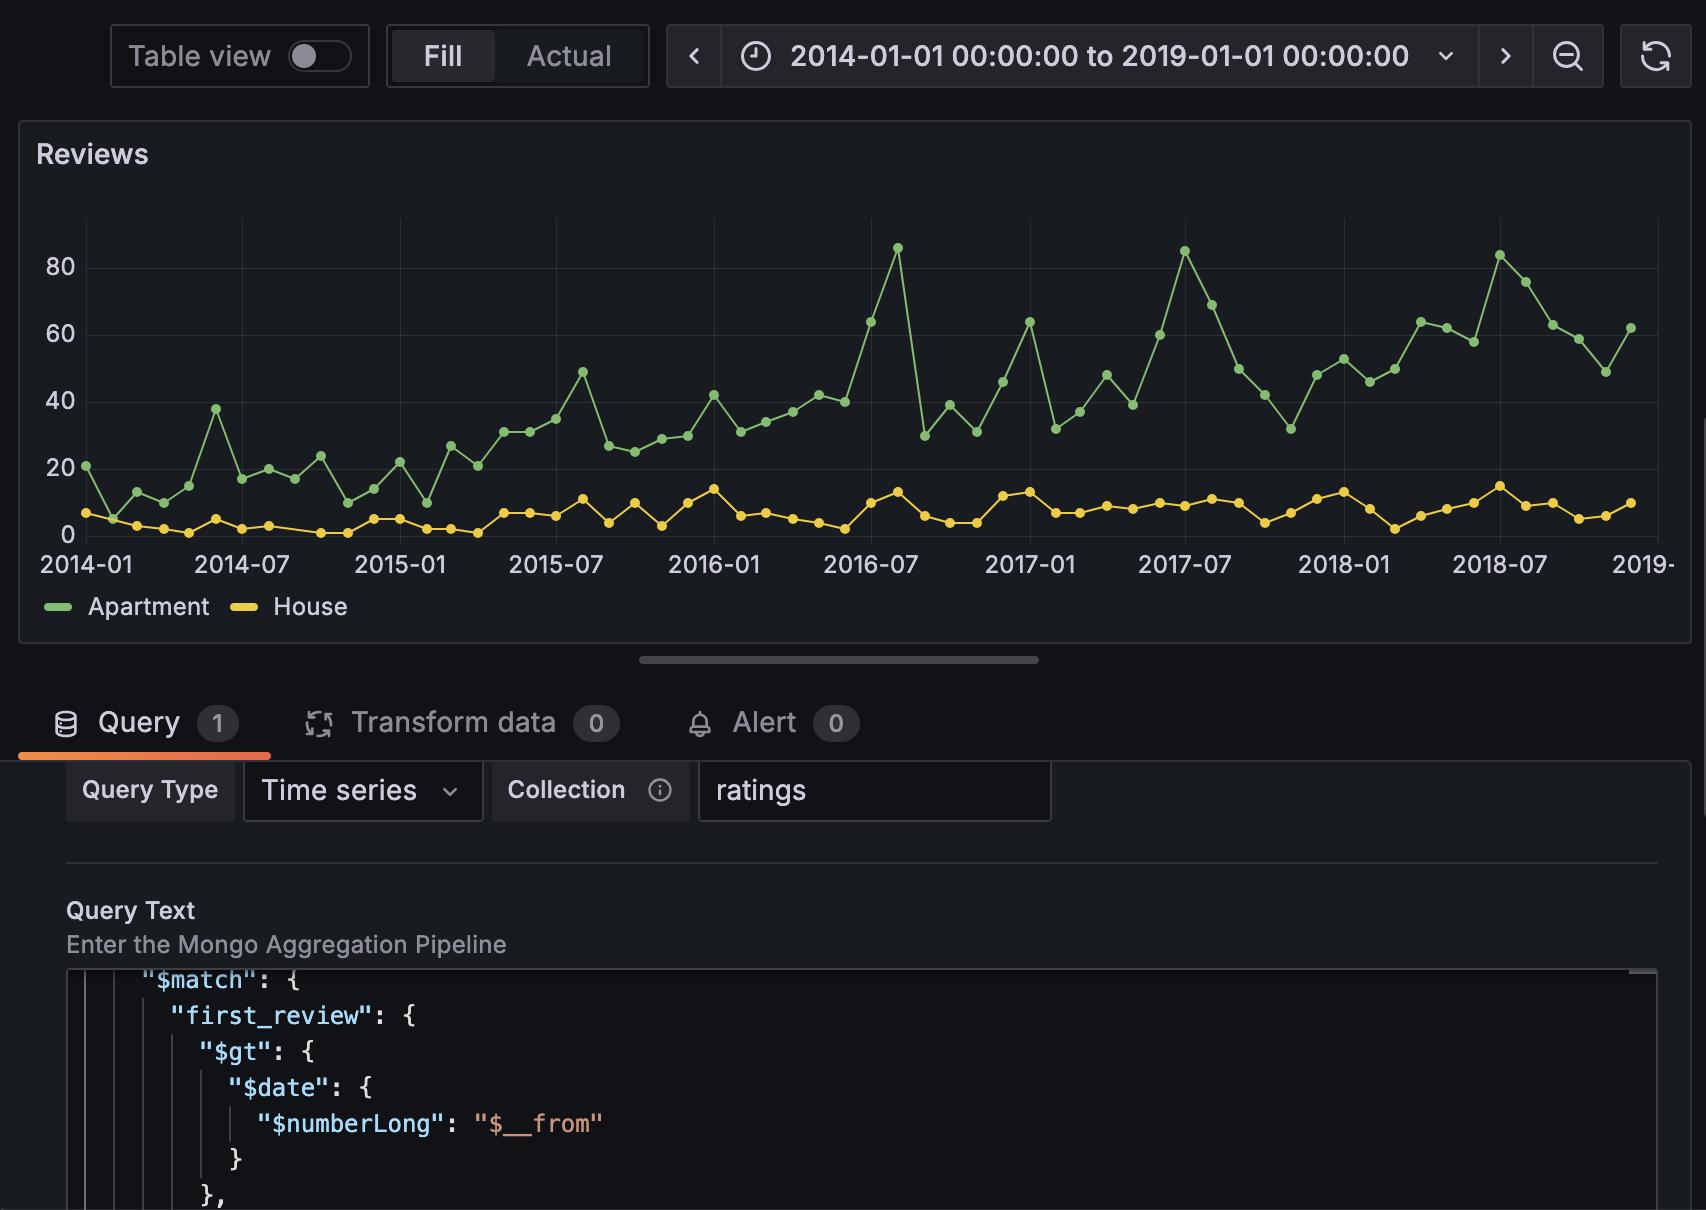
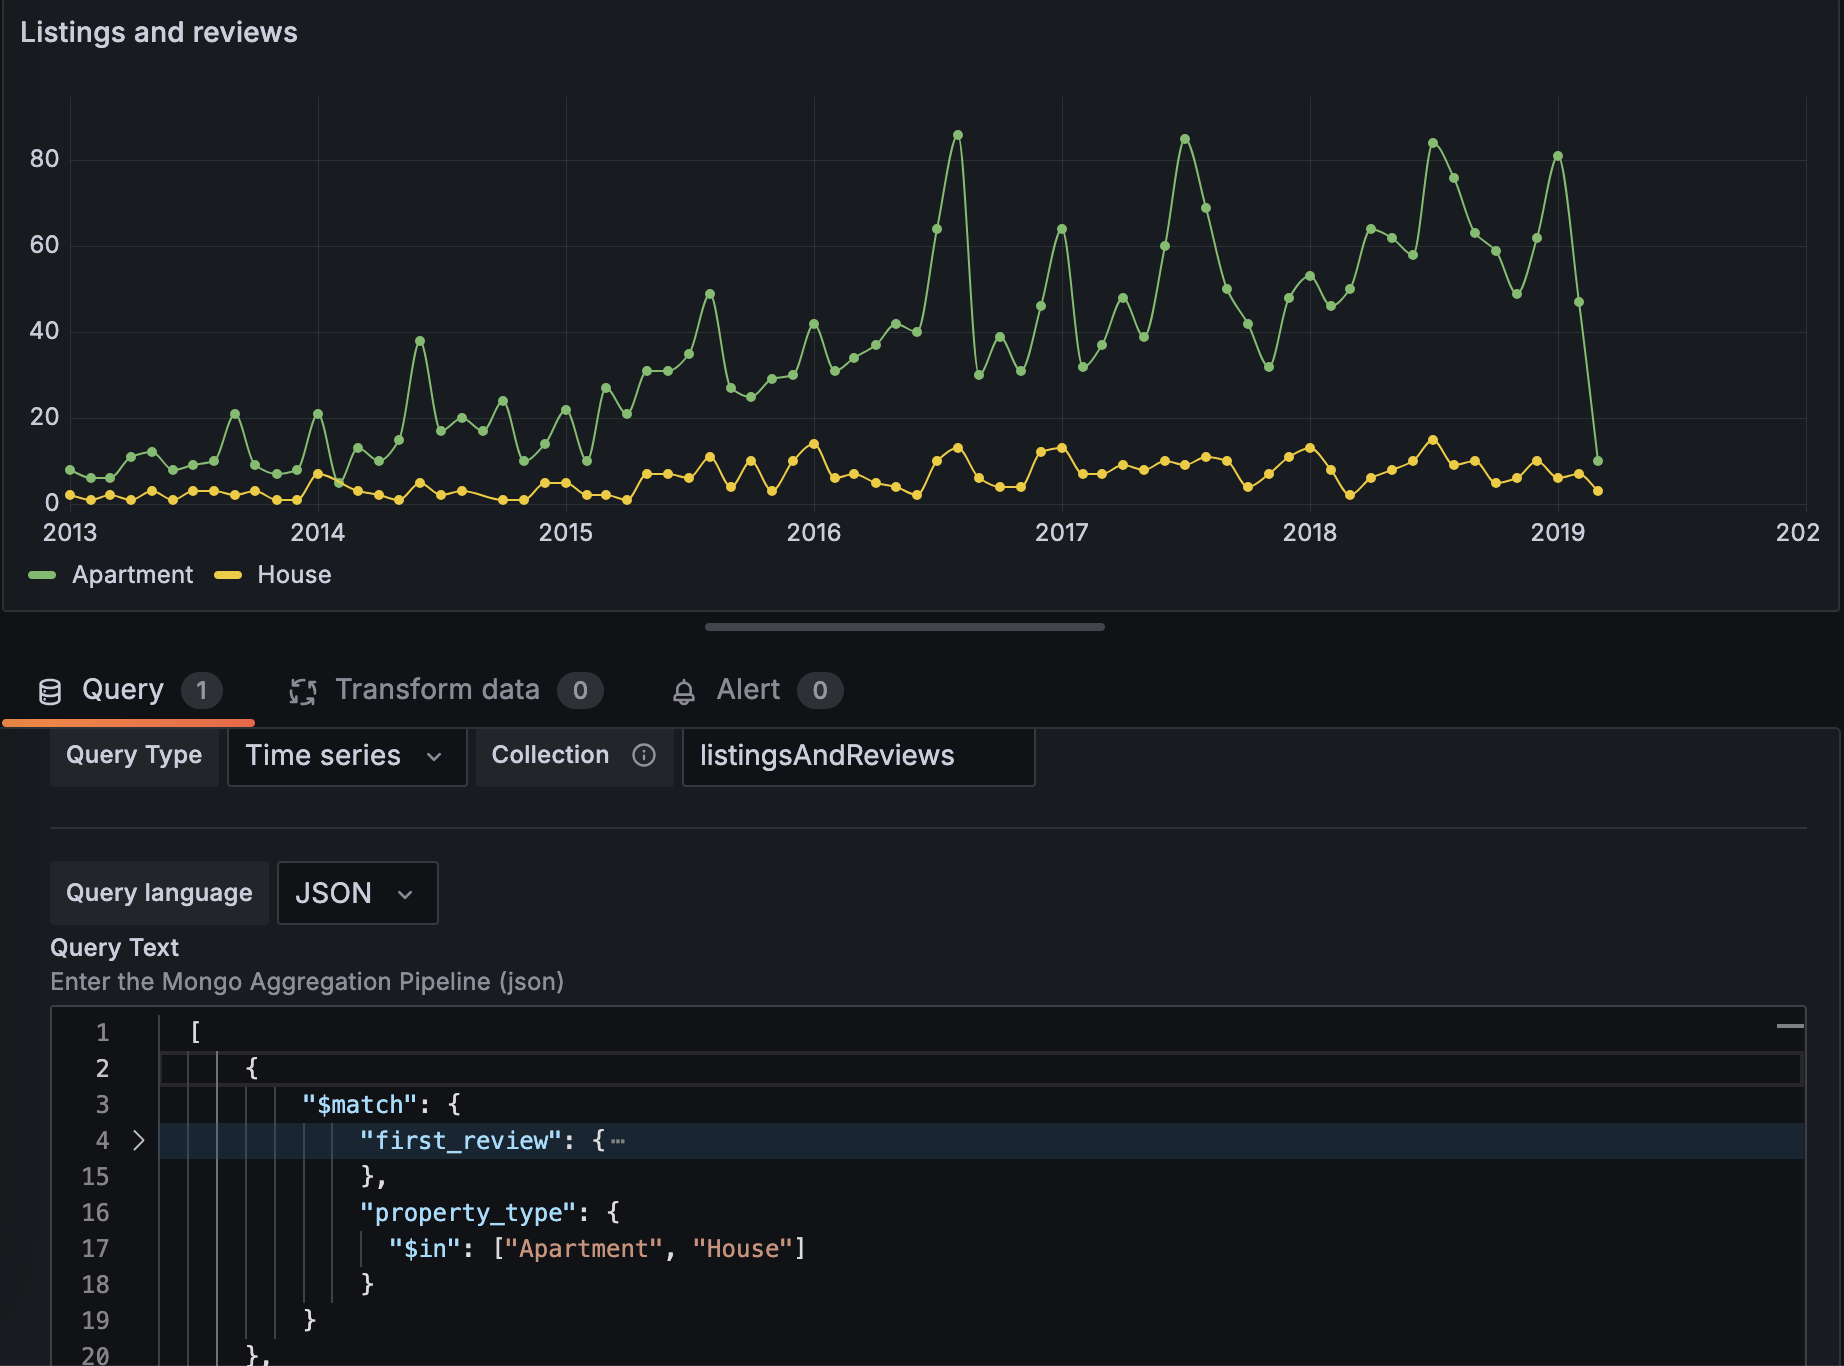
V0.1.0 release (#14)
* update README and plugin metadata

* Update screenshot

* update title

diff --git a/README.md b/README.md
@@ -1,22 +1,50 @@
-# Grafana MongoDB data source
-![example branch parameter](https://github.com/haohanyang/mongodb-datasource/actions/workflows/ci.yml/badge.svg?branch=master)
+# Grafana MongoDB Data Source
 
-This plugin provides a Grafana datasource for querying and visualizing data from MongoDB.
+**Visualize your MongoDB data in Grafana with powerful aggregation queries.**
+
+![ci](https://github.com/haohanyang/mongodb-datasource/actions/workflows/ci.yml/badge.svg?branch=master)
+
+This plugin enables you to query and visualize data from your MongoDB databases directly within Grafana. Leverage the flexibility of MongoDB's aggregation pipeline to create insightful dashboards and panels.
 
 ![screenshot](/static/screenshot.png)
 
-## Download
-[Download the latest build](https://github.com/haohanyang/mongodb-datasource/actions/runs/11313289435/artifacts/2049966955)
+## Features
 
+- **Flexible Querying:** Craft precise queries using MongoDB's aggregation pipeline syntax in JSON or JavaScript.
+- **Time Series & Table Data:** Visualize time-based data or display results in tabular format for various Grafana panels.
+- **Secure Execution:** Execute JavaScript queries within a secure ShadowRealm sandbox to control access.
+- **Legacy Plugin Compatibility:** Seamlessly migrate from the legacy plugin with support for its query syntax.
+- **Up-to-date:** Use the latest Grafana Plugin SDKs and follow best practices.
 
-## Use
-### Query language
-The query text should be a valid MongoDB Aggregate pipeline - an array consisting of MongoDB Aggregate operations. Your may use the Grafana's built-in variables `"$__from"` and `"$__to"` to query data based on the current panel's time range. The plugin supports JSON and JavaScript query languages. In JSON query, you need to enter the database in the UI. Here is an example of JSON query.
+## Getting Started
+1. **Download:** Obtain the latest plugin build from the [Release page](https://github.com/haohanyang/mongodb-datasource/releases) or [workflow artifacts](https://github.com/haohanyang/mongodb-datasource/actions?query=branch%3Amaster).
+
+2. **Install:** 
+   - Extract the downloaded archive (`haohanyang-mongodb-datasource-<version>.zip`) into your Grafana plugins directory (`/var/lib/grafana/plugins` or similar).
+   - Ensure the plugin binaries (`mongodb-datasource/gpx_mongodb_datasource_*`) have execute permissions (`chmod +x`).
+       ```bash
+       chmod 0755 mongodb-datasource/gpx_mongodb_datasource_*
+       ```
+   - Configure the plugin as a data source within Grafana, providing your MongoDB connection details.
+
+Refer to the [example docker-compose.prod.yaml](/docker-compose.prod.yaml) file for a production-ready setup. 
+    
+3. **Start Querying:** 
+    - Select your MongoDB data source in a Grafana panel.
+    - Use the query editor to write your aggregation pipeline queries (see Query Language below).
+
+## Query Language
+
+### JSON (Recommended)
+
+Provide the collection name and your MongoDB aggregation pipeline in standard JSON format.
+
+**Example:** Retrieve 10 AirBnB listings scraped within the selected time range:
 ```json
 [
     {
         "$match": {
-            "createdTime": {
+            "last_scraped": {
                 "$gt": {
                     "$date": {
                         "$numberLong": "$__from"
@@ -27,129 +55,141 @@ The query text should be a valid MongoDB Aggregate pipeline - an array consistin
                         "$numberLong": "$__to"
                     }
                 }
-            }
-        }
-    }
-]
-```
-In JavaScript query, you need to follow the format `db.<collection-name>.aggregate([<json-query>])`. As shows in the following example.
-```js
-db.transactions.aggregate([
-    {
-        "$match": {
-            "createdTime": {
-                "$gt": {
-                    "$date": {
-                        "$numberLong": "$__from"
-                    }
-                },
-                "$lt": {
-                    "$date": {
-                        "$numberLong": "$__to"
-                    }
-                }
-            }
-        }
-    }
-]);
-```
-
-You can also use the `"$from"`, `"$to"` and `"$dateBucketCount"`(number of intervals in the time range) conventions originated from a legacy plugin.
-```json
-[
-    {
-        "$match": {
-            "createdTime": {
-                "$gt": "$from",
-                "$lt": "$to"
-            }
-        }
-    }
-]
-```
-```json
-{
-    "$bucketAuto": {
-        "groupBy": "$timestamp",
-        "buckets": "$dateBucketCount",
-        // 
-    }
-}
-```
-### Query type
-#### Time series
-Time series query type is suitable for time series panels. The query results should consist the following fields:
-* `ts`
-The timestamp
-* `value`
-Either integer or double. Currently all values should be of the same type.
-* `name` (Optional)
-Useful if you want to show time series data of different categories.
-
-Here is an example of JSON query from [Sample AirBnB Listings Dataset](https://www.mongodb.com/docs/atlas/sample-data/sample-airbnb/). The query shows the number of created AirBnB reviews of apartment and house property type in each month during the selected time range.
-```json
-[
-    {
-        "$match": {
-            "first_review": {
-                "$gt": {
-                    "$date": {
-                        "$numberLong": "$__from"
-                    }
-                },
-                "$lt": {
-                    "$date": {
-                        "$numberLong": "$__to"
-                    }
-                }
-            },
-            "property_type": {
-                "$in": [
-                    "Apartment",
-                    "House"
-                ]
             }
         }
     },
     {
-        "$group": {
-            "_id": {
-                "month": {
-                    "$dateToString": {
-                        "format": "%Y-%m",
-                        "date": "$first_review"
-                    }
-                },
-                "property_type": "$property_type"
-            },
-            "value": {
-                "$count": {}
-            }
-        }
-    },
-    {
-        "$project": {
-            "ts": {
-                "$toDate": "$_id.month"
-            },
-            "name": "$_id.property_type",
-            "value": 1
-        }
+        "$limit": 10
     }
 ]
 ```
-#### table
-Table type is more flexible and doesn't require the output schema. This usually fits  panels that don't require timestamp.
 
+### JavaScript (Legacy & ShadowRealm)
 
-## Install
-* Download the packaged plugin `haohanyang-mongodb-datasource-<version>.zip` from [workflow artifacts](#download) to the root directory (where `docker-compose.yaml` exists) and extract files to folder `mongodb-datasource`
+- **Legacy:** Maintain compatibility with the older plugin's syntax: 
+    ```javascript
+    db.listingsAndReviews.aggregate([ /* Your aggregation pipeline (JSON) */ ]); 
+    ```
+   This gives the same result as the previous JSON query.
+	```js
+	db.listingsAndReviews.aggregate([
+	    {
+	        "$match": {
+	            "last_scraped": {
+	                "$gt": {
+	                    "$date": {
+	                        "$numberLong": "$__from"
+	                    }
+	                },
+	                "$lt": {
+	                    "$date": {
+	                        "$numberLong": "$__to"
+	                    }
+	                }
+	            }
+	        }
+	    },
+	    {
+	        "$limit": 10
+	    }
+	])
+	```
+- **ShadowRealm (Secure):** Define an `aggregate()` function that returns your pipeline. The function executes within a [ShadowRealm](https://github.com/tc39/proposal-shadowrealm) sandboxed environment. 
+	```javascript
+	function aggregate() {
+	   // ... your logic based on template variables ...
+	   return [ /* Your aggregation pipeline */ ]; 
+	}
+	```
+    In this example, only the admin user to can view the query result.
+	```js
+	function aggregate() {
+	    const user = "${__user.login}"
+	    let filter = {}
+	    if (user !== "admin") {
+	        filter = {
+	            noop: true
+	        }
+	    }
+	    return [
+	        {
+	            $match: filter
+	        },
+	        {
+	            $limit: 10
+	        }
+	    ]
+	}
+	```
 
-```bash
-unzip haohanyang-mongodb-datasource-<version>.zip -d mongodb-datasource
-```
-* Grant `0755`(`-rwxr-xr-x`) permission to binaries in `mongodb-datasource` directory.
-```bash
-chmod 0755 mongodb-datasource/gpx_mongodb_datasource_*
-```
-* Create/start the docker container as descriped in the [example docker compose file](/docker-compose.prod.yaml)
+### Query Types
+
+- **Time series:**  For time-based visualizations. Your query must return documents with `ts` (timestamp) and `value` fields. An optional `name` field enables grouping by category.
+
+  The following query of [Sample AirBnB Listings Dataset](https://www.mongodb.com/docs/atlas/sample-data/sample-airbnb/) shows the number of AirBnB listings in each month that have the first review in the selected time range.
+	```json
+	[
+	    {
+	        "$match": {
+	            "first_review": {
+	                "$gt": {
+	                    "$date": {
+	                        "$numberLong": "$__from"
+	                    }
+	                },
+	                "$lt": {
+	                    "$date": {
+	                        "$numberLong": "$__to"
+	                    }
+	                }
+	            }
+	        }
+	    },
+	    {
+	        "$group": {
+	            "_id": {
+	                "month": {
+	                    "$dateToString": {
+	                        "format": "%Y-%m",
+	                        "date": "$first_review"
+	                    }
+	                },
+	                "property_type": "$property_type"
+	            },
+	            "value": {
+	                "$count": {}
+	            }
+	        }
+	    },
+	    {
+	        "$project": {
+	            "ts": {
+	                "$toDate": "$_id.month"
+	            },
+	            "name": "$_id.property_type",
+	            "value": 1
+	        }
+	    }
+	] 
+	```
+- **Table:** For more flexible data display in tables, pie charts, etc. No specific output schema is required.
+
+## Supported Data Types
+
+| BSON Type             | Support | Go Type           | Notes                                   |
+|-----------------------|---------|-------------------|-------------------------------------------|
+| Double               | ✅       | float64           |                                           |
+| String               | ✅       | string           |                                           |
+| Object               | ✅       | json.RawMessage  | May be converted to string if necessary |
+| Array                | ✅       | json.RawMessage  | May be converted to string if necessary |
+| ObjectId             | ✅       | string           |                                           |
+| Boolean              | ✅       | bool              |                                           |
+| Date                 | ✅       | time.Time         |                                           |
+| Null                 | ✅       | nil              |                                           |
+| 32-bit integer      | ✅       | int32            | May be converted to int64/float64        |
+| 64-bit integer      | ✅       | int64            | May be converted to float64             |
+
+ **Note:** Unsupported BSON types are not included in the table and will display as `"[Unsupported type]"`.
+
+## License
+Apache-2.0
